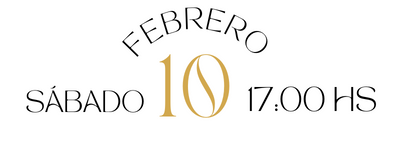
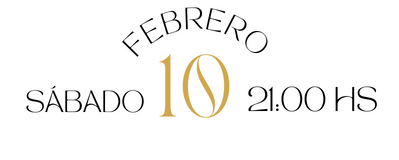
add form

Changed region(s): [[0.6015, 0.5312, 0.9624, 0.7188], [0.9323, 0.625, 0.9624, 0.6875], [0.9023, 0.6875, 0.9323, 0.7188]]

diff --git a/src/components/Asistencia/Asistencia.jsx b/src/components/Asistencia/Asistencia.jsx
@@ -29,7 +29,7 @@ const asistencia = () => {
         >
           <a
             className="d-flex flex-column justify-content-center align-items-center py-3"
-            href="https://docs.google.com/forms/d/e/1FAIpQLScZW93WCwIIsiK0aygOVfNWny3EE77fjEscSLkmNzYXCs3B1Q/viewform?usp=sharing"
+            href="https://docs.google.com/forms/d/e/1FAIpQLSc4Lh5H5Xw6GAFteWA1UtGUvdGsZGkthDCA7xx3lz44IB3UbQ/viewformg"
             target="_blank"
             rel="noreferrer"
           >

diff --git a/src/components/Ubicacion/Ubicacion.jsx b/src/components/Ubicacion/Ubicacion.jsx
@@ -9,7 +9,7 @@ AOS.init();
 const ubicacion = () => {
   //CUENTA REGRESIVA
   // eslint-disable-next-line react-hooks/exhaustive-deps
-  const targetDate = new Date("2024-02-10T17:00:00"); // Fecha objetivo
+  const targetDate = new Date("2024-02-10T21:00:00"); // Fecha objetivo
 
   // eslint-disable-next-line react-hooks/rules-of-hooks
   const [days, setDays] = useState(0);
